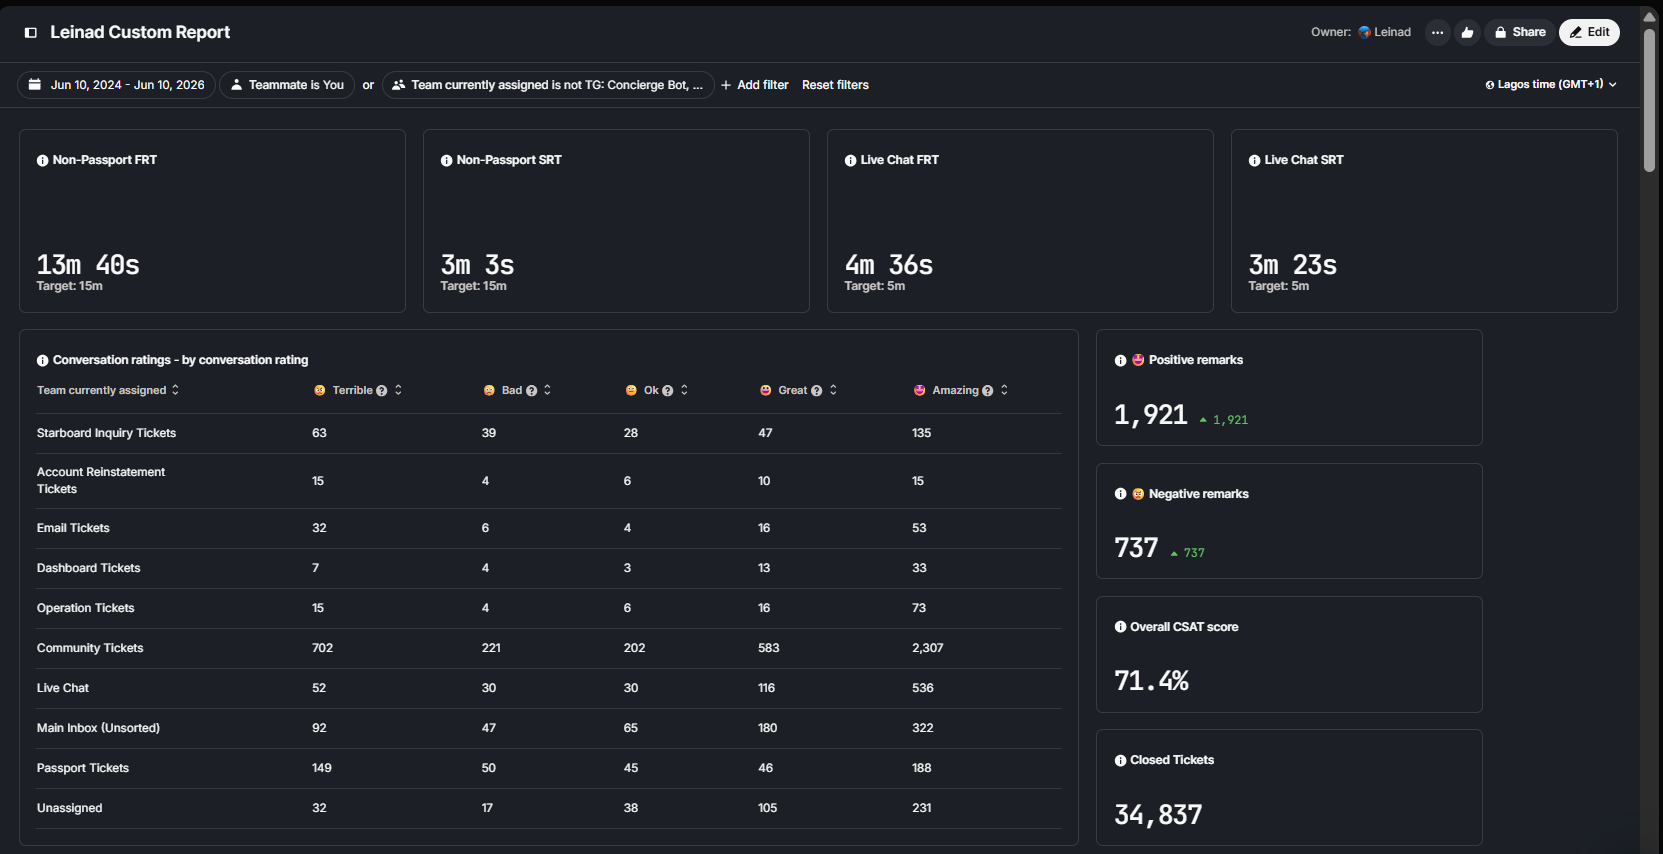
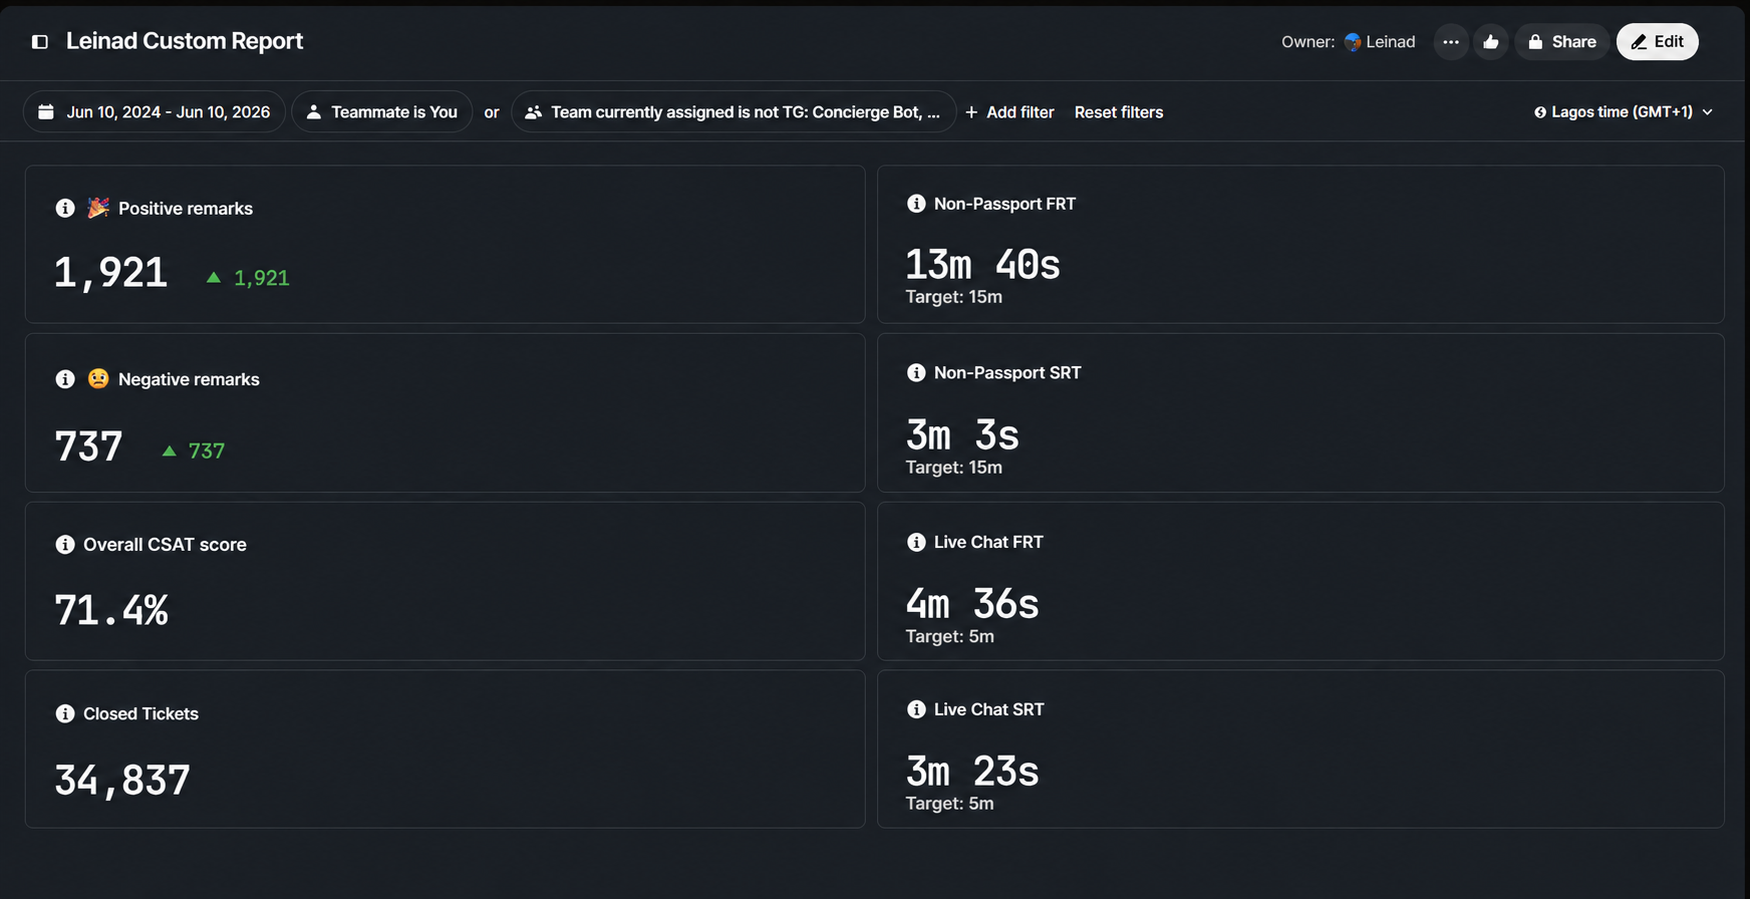
Update portfolio

diff --git a/index.html b/index.html
@@ -17,6 +17,7 @@
             <ul class="nav-links">
                 <li><a href="#home">Home</a></li>
                 <li><a href="#about">About</a></li>
+                <li><a href="#impact">Impact</a></li>
                 <li><a href="#skills">Skills</a></li>
                 <li><a href="#projects">Projects</a></li>
                 <li><a href="#contact">Contact</a></li>
@@ -95,64 +96,43 @@
             </div>
         </section>
 
-        <section id="support-experience">
-
+        <section id="impact">
             <div class="section-heading">
                 <p>SUPPORT EXPERIENCE</p>
                 <h2>Measurable Impact</h2>
-
                 <p class="section-description">
                     A snapshot of my customer support performance and the metrics
                     I tracked while working as a Support Specialist.
                 </p>
             </div>
-
             <div class="support-content">
-
                 <div class="support-metrics">
-
                     <div class="metric-card">
                         <h3>34,837</h3>
                         <p>Closed Tickets</p>
                     </div>
-
                     <div class="metric-card">
                         <h3>71.4%</h3>
                         <p>Overall CSAT</p>
                     </div>
-
                     <div class="metric-card">
                         <h3>13m 40s</h3>
                         <p>Non-Passport FRT</p>
                     </div>
-
                     <div class="metric-card">
                         <h3>3m 23s</h3>
                         <p>Live Chat SRT</p>
                     </div>
-
                 </div>
-
                 <div class="support-dashboard">
-
                     <p class="dashboard-label">
                         SUPPORT PERFORMANCE DASHBOARD
                     </p>
-
-                    <img
-                        src="images/support-metrics.png"
+                    <img src="images/support-metrics.png"
                         alt="Support performance metrics dashboard"
-                        class="support-image"
-                    >
-
-                    <p class="dashboard-note">
-                        Click the dashboard to view the full-size screenshot.
-                    </p>
-
+                        class="support-image">
                 </div>
-
             </div>
-
         </section>
 
         <section id="skills">
@@ -302,6 +282,8 @@
             <div class="footer-links">
                 <a href="#home">Home</a>
                 <a href="#about">About</a>
+                <a href="#impact">Impact</a>
+                <a href="#skills">Skills</a>
                 <a href="#projects">Projects</a>
                 <a href="#contact">Contact</a>
             </div>
@@ -310,26 +292,20 @@
             </p>
         </div>
     </footer>
-        <div class="lightbox" id="lightbox">
-            <button class="lightbox-close" id="lightbox-close">&times;</button>
-            <img id="lightbox-image" src="" alt="">
-        </div>
-        <div class="lightbox" id="lightbox">
 
+<!-- Image Lightbox -->
+        <div class="lightbox" id="lightbox">
             <button
                 class="lightbox-close"
                 id="lightbox-close"
                 aria-label="Close image">
                 &times;
             </button>
-
             <img
                 id="lightbox-image"
                 src=""
                 alt="">
-
         </div>
-    <script src="script.js"></script>
+<script src="script.js"></script>
 </body>
-
 </html>

diff --git a/style.css b/style.css
@@ -265,7 +265,7 @@ section h2 {
    Support Experience
 ========================= */
 
-#support-experience {
+#impact {
     background-color: #f5f5f5;
     max-width: none;
     padding-left: max(20px, calc((100% - 1100px) / 2));
@@ -334,6 +334,15 @@ section h2 {
     font-size: 14px;
     margin-top: 15px;
     margin-bottom: 0;
+}
+
+.dashboard-note1 {
+    color: #777;
+    font-size: 14px;
+    margin: 15px 0 0;
+    text-align: center;
+    white-space: nowrap;
+    width: 100%;
 }
 
 /* =========================
@@ -746,45 +755,78 @@ footer {
     .metric-card h3 {
         font-size: 24px;
     }
+
+    /* Project Gallery on Mobile */
+
+    .project-gallery {
+        grid-template-columns: 1fr;
+        grid-template-rows: auto;
+    }
+
+    /* All screenshots */
+    ..project-gallery img:nth-child(1),
+    .project-gallery img:nth-child(2),
+    .project-gallery img:nth-child(3),
+    .project-gallery img:nth-child(4) {
+        grid-column: 1;
+        grid-row: auto;
+        width: 100%;
+        height: auto;
+        aspect-ratio: auto;
+        object-fit: contain;
+    }
+
 }
 
 /* =========================
    Image Lightbox
 ========================= */
 
-.lightbox {
-    display: none;
+#lightbox {
+    display: none !important;
     position: fixed;
-    z-index: 2000;
     inset: 0;
+    width: 100%;
+    height: 100%;
+    z-index: 9999;
     background-color: rgba(0, 0, 0, 0.9);
     justify-content: center;
     align-items: center;
     padding: 30px;
 }
 
-.lightbox.active {
-    display: flex;
+#lightbox.active {
+    display: flex !important;
 }
 
-.lightbox img {
+#lightbox img {
     max-width: 95%;
     max-height: 90vh;
+    width: auto;
+    height: auto;
     object-fit: contain;
     border-radius: 5px;
 }
 
-.lightbox-close {
+#lightbox .lightbox-close {
     position: absolute;
     top: 20px;
     right: 30px;
+    width: auto;
+    height: auto;
+    padding: 0;
+    margin: 0;
+    border: none;
+    background: none;
     color: white;
     font-size: 40px;
+    line-height: 1;
     cursor: pointer;
-    background: none;
-    border: none;
 }
 
-.gallery-image {
-    cursor: pointer;
+/* Clickable images */
+
+.project-gallery .gallery-image,
+.support-image {
+    cursor: zoom-in;
 }

diff --git a/script.js b/script.js
@@ -48,27 +48,19 @@ const lightboxImage = document.getElementById("lightbox-image");
 const lightboxClose = document.getElementById("lightbox-close");
 
 clickableImages.forEach(function (image) {
-
     image.addEventListener("click", function () {
-
         lightboxImage.src = image.src;
         lightboxImage.alt = image.alt;
-
         lightbox.classList.add("active");
     });
-
 });
 
 lightboxClose.addEventListener("click", function () {
-
     lightbox.classList.remove("active");
-
 });
 
 lightbox.addEventListener("click", function (event) {
-
     if (event.target === lightbox) {
         lightbox.classList.remove("active");
     }
-
 });
